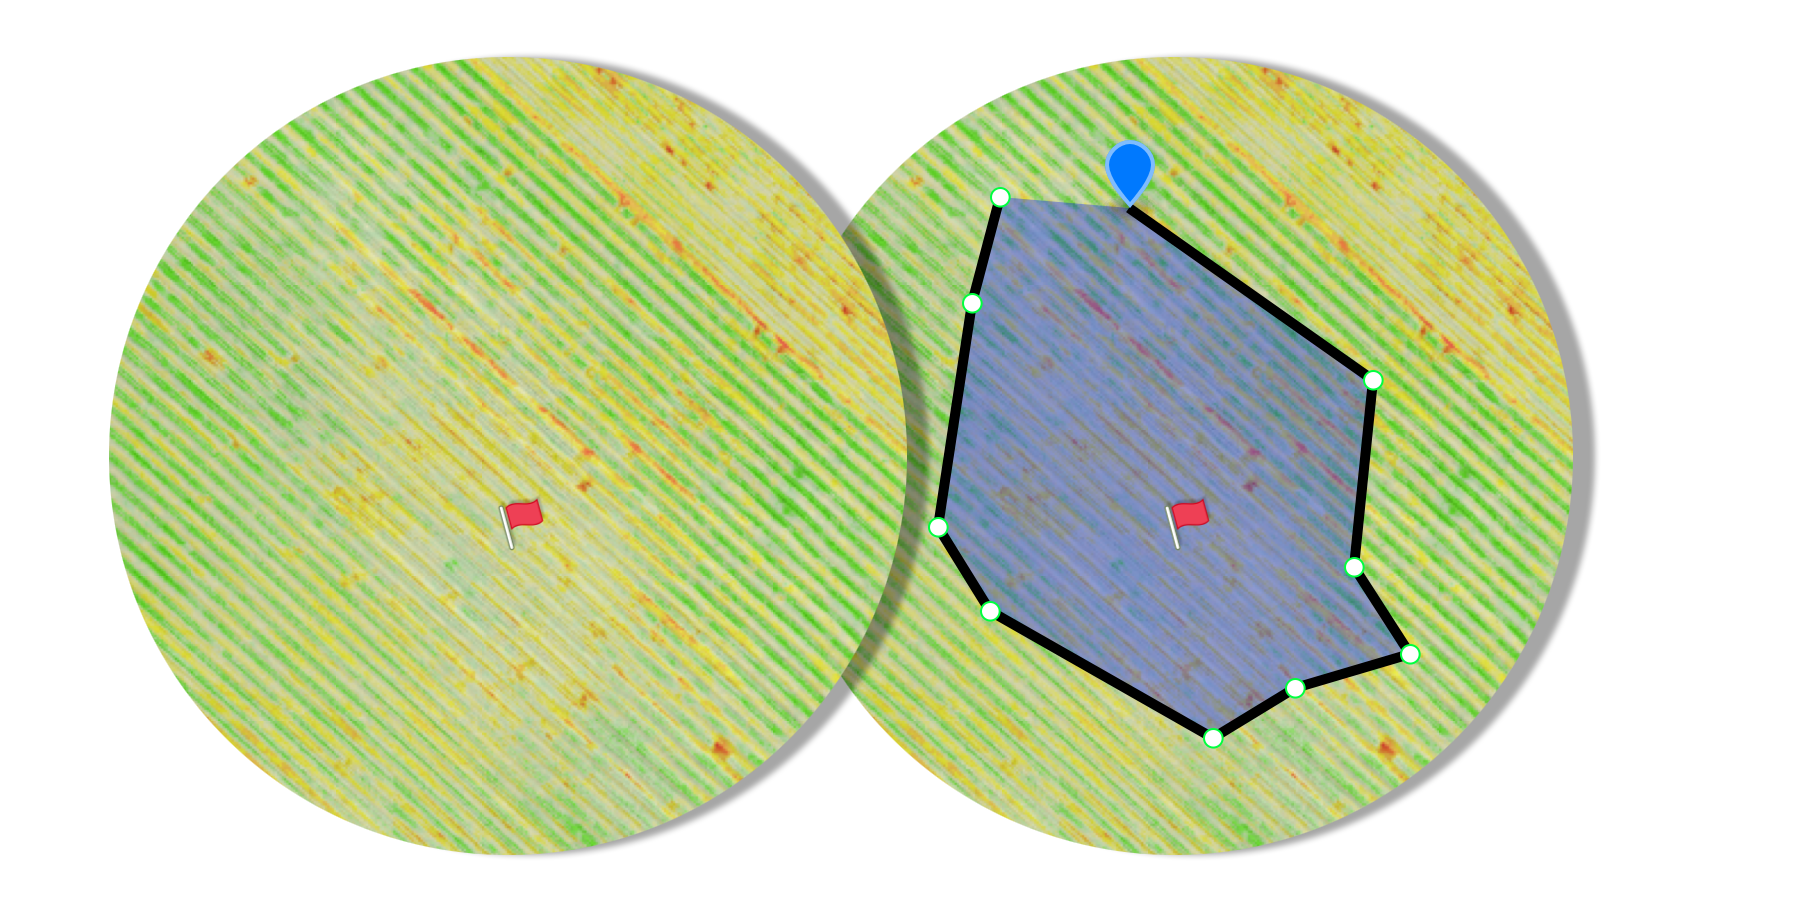
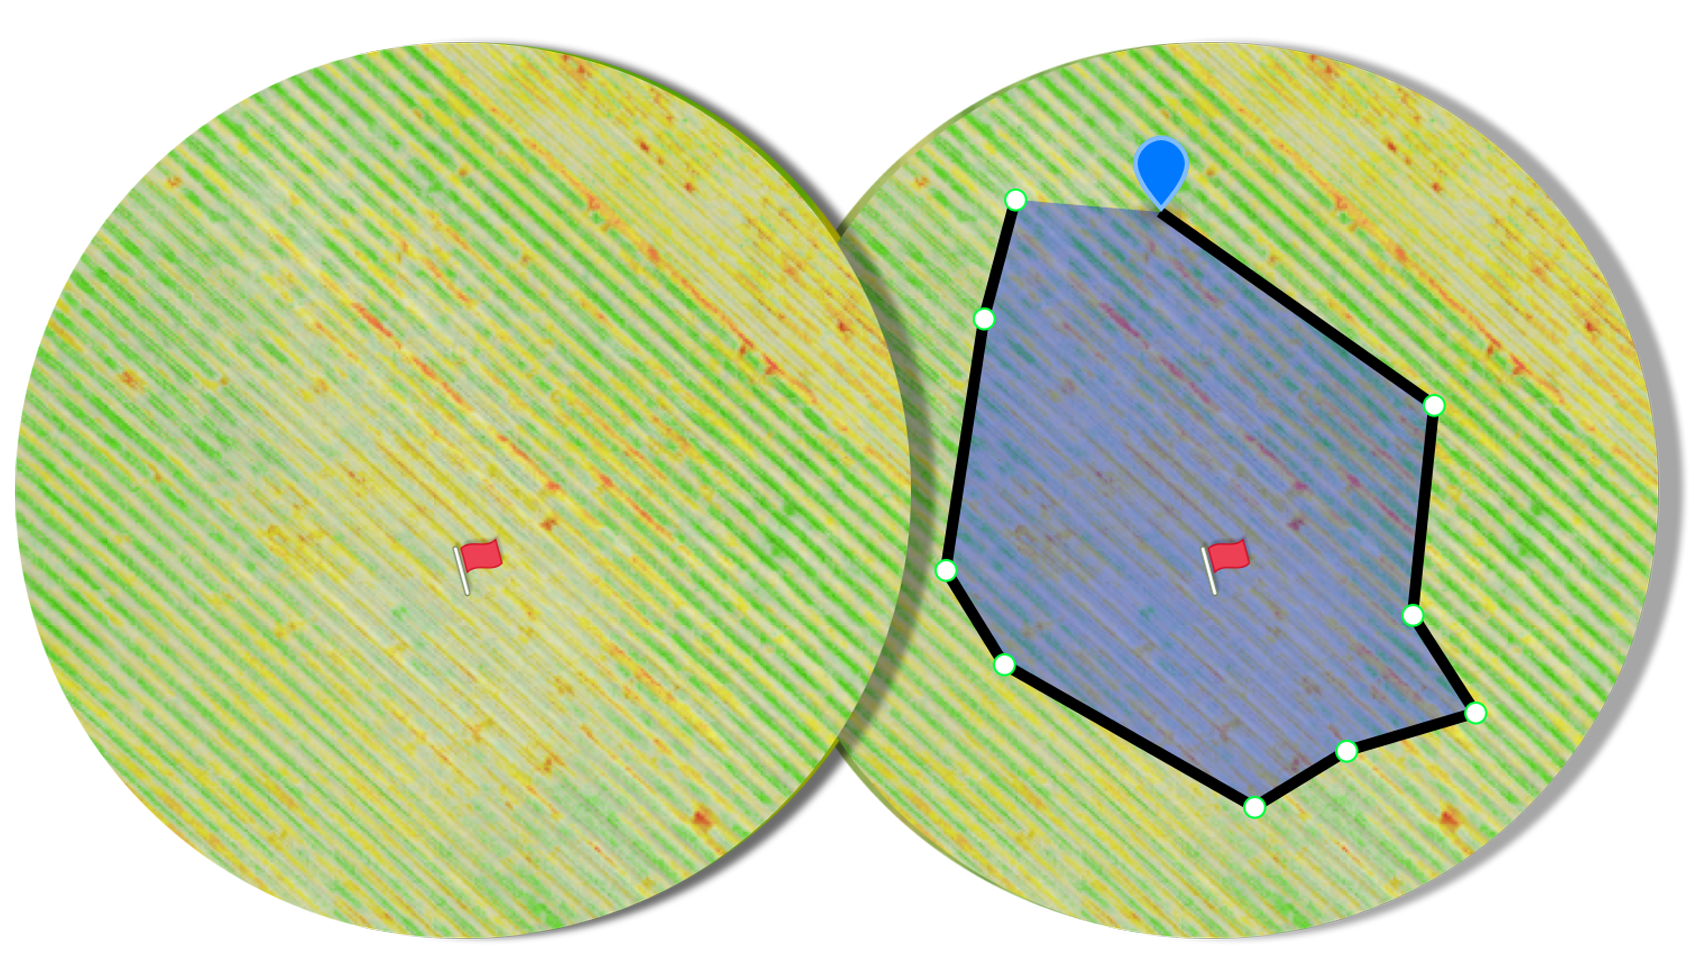
chnage image size.

diff --git a/UAV-IQ-Marketing/app/our_pruducts.html b/UAV-IQ-Marketing/app/our_pruducts.html
@@ -56,7 +56,7 @@
         <h1 class="section-header">Actionable Data Delivered to all  of Your Team Members’ Devices. Collaborate & Make Confident, Accurate Decisions.</h1>
         <div class="">
           <div class="col-sm-12 col-md-6">
-            <img src="img/polygon side to side.png" alt=""/>
+            <img src="img/polygon side to side without area size.png" alt=""/>
             <h2>Crop Health Assessment (NDVI or other indexes by request)</h2>
             <p>(NDVI or other indexes by request)</p>
             <p>Precise assesment, row by row, plant by plant.</p>
